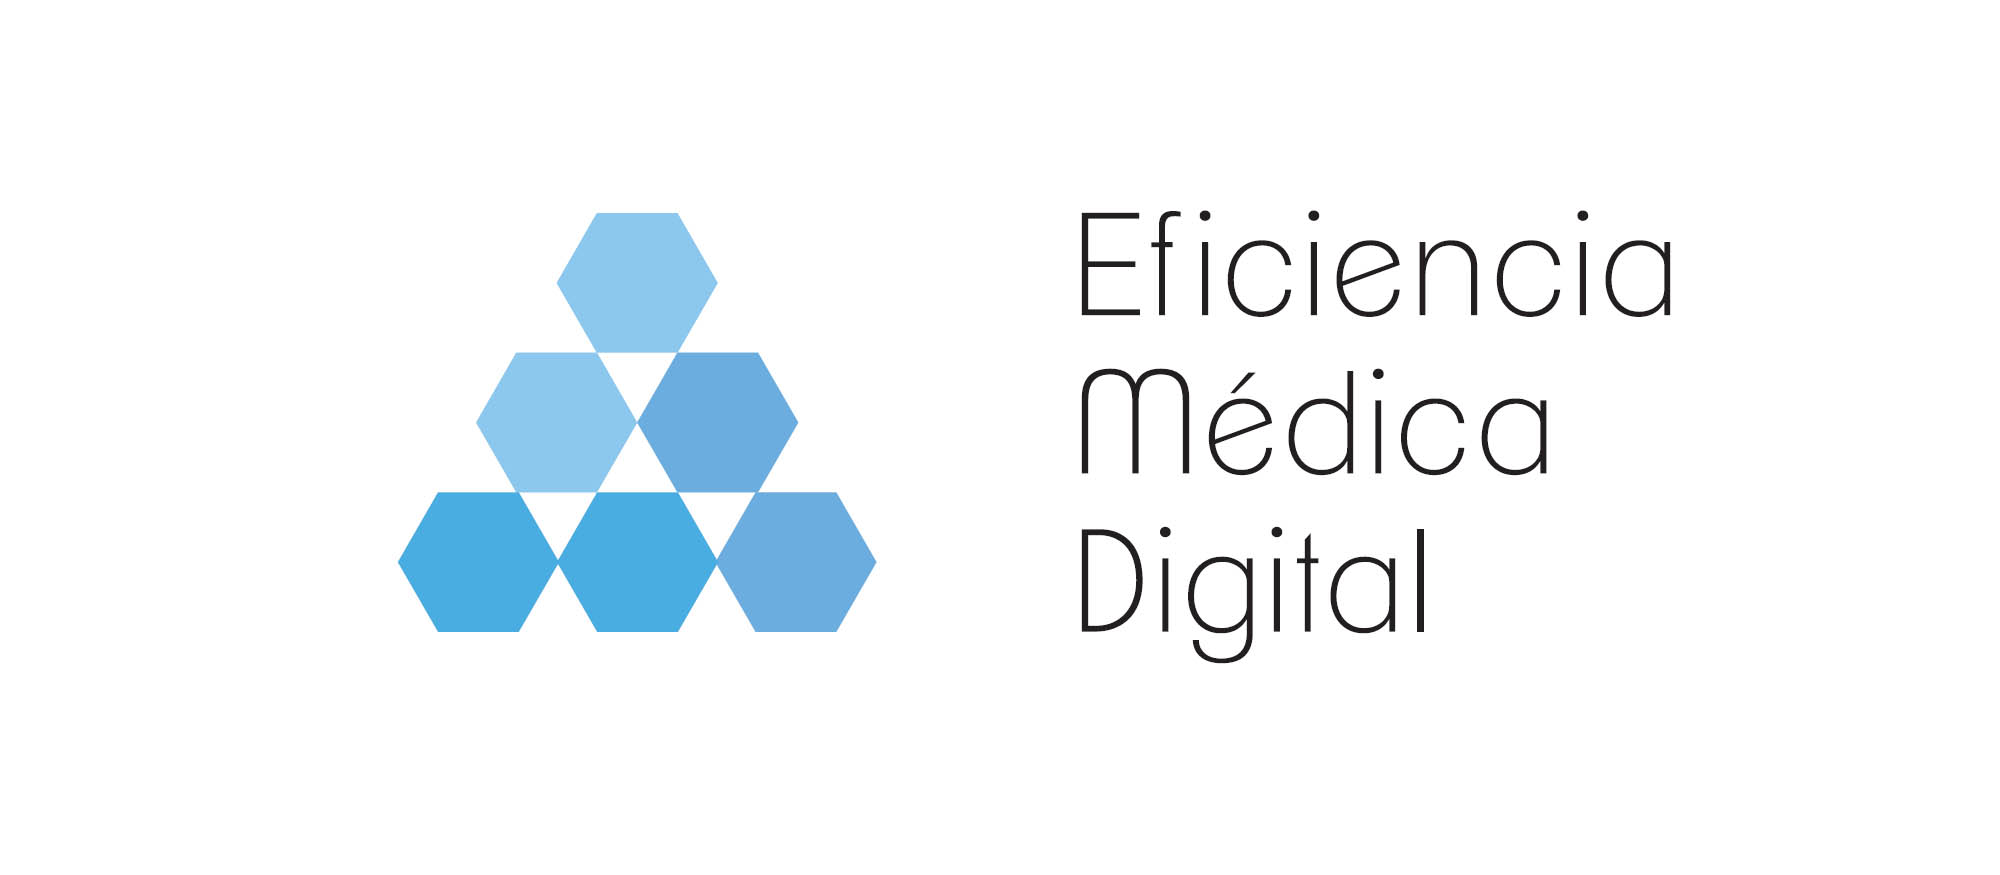
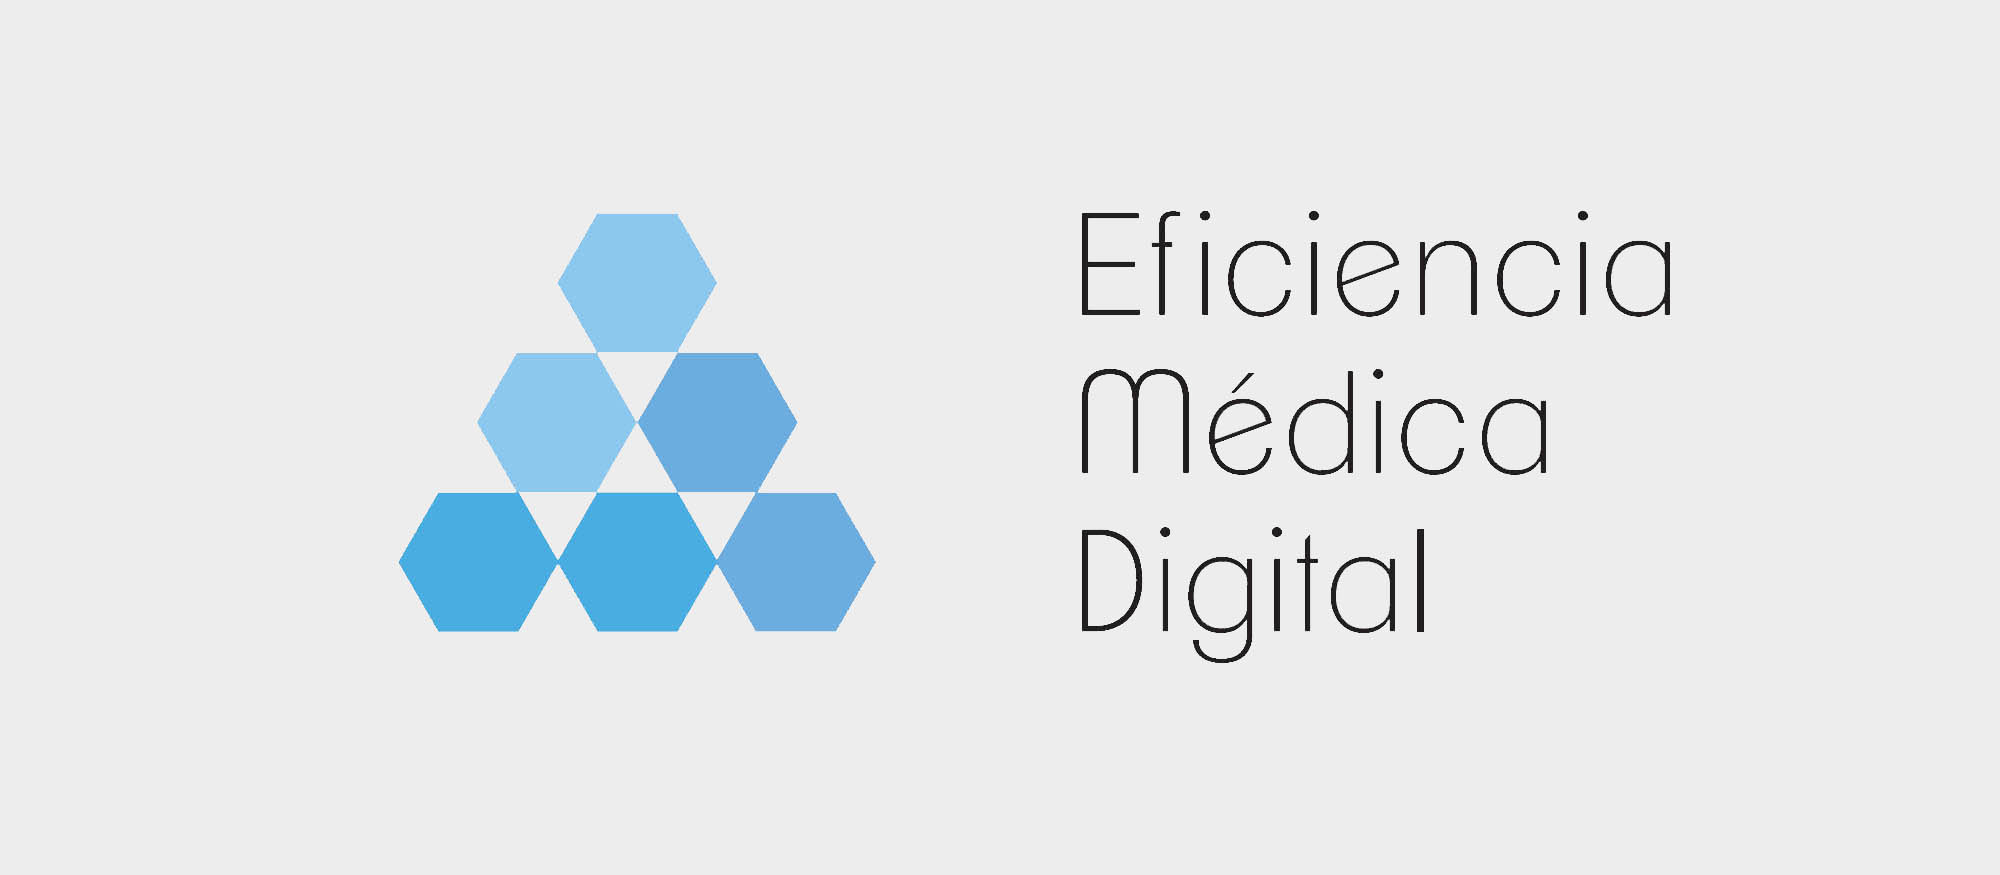
nueva imagen de fondo

diff --git a/index.html b/index.html
@@ -54,7 +54,7 @@
 		<div class="container-fluid">
 			<div style="background-image:url('images/slide/slide.jpg');" class="row main-slider"></div>
 		</div>
-		<div class="jumbotron">
+		<div class="jumbotron home-jumbotron">
 	      <h1 class="text-center"><strong>EMD</strong> en la industria</h1>
 	      <p class="text-center">A través de la mejor tecnología y con el mejor servicio hacia nuestro clientes, transformamos el mercado de la imagenología, digitalizando imágenes por medio de la implementación de tecnología de punta y soluciones integrales para generar también un cambio en la cultura de servicio y elevar la calidad de productos hacia los pacientes</p>
 	    </div>
